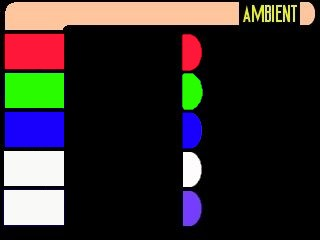
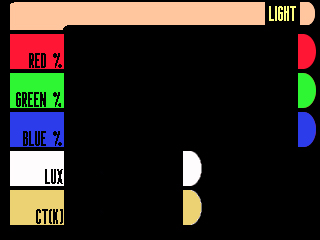
Added Dist and Temp Pictures and Code

diff --git a/lib/ui/Pages.cpp b/lib/ui/Pages.cpp
@@ -14,6 +14,10 @@ void BlankPage::init()
 {
   Serial.println("INIT BLANK PAGE");
   GO.lcd.drawJpgFile(SPIFFS, "/Init.jpg", 0, 0, 320, 240, 0, 0, JPEG_DIV_NONE);
+  for (int i = 0; i < 5; ++i)
+  {
+    components[i]->reset();
+  }
 }
 
 void BlankPage::draw()
@@ -25,6 +29,10 @@ void AmbientPage::init()
 {
   Serial.println("INIT Ambient PAGE");
   GO.lcd.drawJpgFile(SPIFFS, "/Ambient.jpg", 0, 0, 320, 240, 0, 0, JPEG_DIV_NONE);
+  for (int i = 0; i < 5; ++i)
+  {
+    components[i]->reset();
+  }
 }
 
 void AmbientPage::setSensorData(
@@ -42,11 +50,11 @@ void AmbientPage::setSensorData(
 
   components = (UIComponent **)malloc(sizeof(UIComponent *) * 5);
 
-  components[0] = new Text(65, 30, "%.1lf", RED, BLACK, 2, tempSensorData);
-  components[1] = new Text(65, 72, "%.1lf", BLUE, BLACK, 2, humSensorData);
-  components[2] = new Text(65, 112, "%.1lf", WHITE, BLACK, 2, pressSensorData);
-  components[3] = new Text(65, 150, "%.1lf", WHITE, BLACK, 2, luxSensorData);
-  components[4] = new Text(65, 190, "%.1lf", WHITE, BLACK, 2, uvSensorData);
+  components[0] = new Text(68, 33, "%.1lf", RED, BLACK, 2, tempSensorData);
+  components[1] = new Text(68, 73, "%.1lf", BLUE, BLACK, 2, humSensorData);
+  components[2] = new Text(68, 112, "%.1lf", WHITE, BLACK, 2, pressSensorData);
+  components[3] = new Text(68, 152, "%.1lf", WHITE, BLACK, 2, luxSensorData);
+  components[4] = new Text(68, 192, "%.1lf", WHITE, BLACK, 2, uvSensorData);
 }
 
 void AmbientPage::draw()
@@ -62,6 +70,10 @@ void LightPage::init()
 {
   Serial.println("INIT Light PAGE");
   GO.lcd.drawJpgFile(SPIFFS, "/Light.jpg", 0, 0, 320, 240, 0, 0, JPEG_DIV_NONE);
+  for (int i = 0; i < 5; ++i)
+  {
+    components[i]->reset();
+  }
 }
 
 void LightPage::setSensorData(
@@ -79,11 +91,15 @@ void LightPage::setSensorData(
 
   components = (UIComponent **)malloc(sizeof(UIComponent *) * 5);
 
-  components[0] = new Text(65, 30, "%.1lf", RED, BLACK, 2, redSensorData);
-  components[1] = new Text(65, 72, "%.1lf", GREEN, BLACK, 2, greenSensorData);
-  components[2] = new Text(65, 112, "%.1lf", BLUE, BLACK, 2, blueSensorData);
-  components[3] = new Text(65, 150, "%.1lf", WHITE, BLACK, 2, luxSensorData);
-  components[4] = new Text(65, 190, "%.1lf", YELLOW, BLACK, 2, colorTempSensorData);
+  components[0] = new BarGraph(68, 33, 220, 35, 0, 100, RED, BLACK, redSensorData);
+  components[1] = new BarGraph(68, 74, 220, 35, 0, 100, GREEN, BLACK, greenSensorData);
+  components[2] = new BarGraph(68, 112, 220, 35, 0, 100, BLUE, BLACK, blueSensorData);
+
+  //components[0] = new Text(65, 30, "%.1lf", RED, BLACK, 2, redSensorData);
+  //components[1] = new Text(65, 72, "%.1lf", GREEN, BLACK, 2, greenSensorData);
+  //components[2] = new Text(65, 112, "%.1lf", BLUE, BLACK, 2, blueSensorData);
+  components[3] = new Text(68, 153, "%.1lf", WHITE, BLACK, 2, luxSensorData);
+  components[4] = new Text(68, 192, "%.1lf", YELLOW, BLACK, 2, colorTempSensorData);
 }
 
 void LightPage::draw()
@@ -100,6 +116,10 @@ void GasesPage::init()
 {
   Serial.println("INIT Gases PAGE");
   GO.lcd.drawJpgFile(SPIFFS, "/Gases.jpg", 0, 0, 320, 240, 0, 0, JPEG_DIV_NONE);
+  for (int i = 0; i < 5; ++i)
+  {
+    components[i]->reset();
+  }
 }
 
 void GasesPage::setSensorData(
@@ -150,10 +170,78 @@ void GasesPage::draw()
 
 // -------------------------------------------
 
+void DistancePage::init()
+{
+  Serial.println("INIT Distance PAGE");
+  GO.lcd.drawJpgFile(SPIFFS, "/Distance.jpg", 0, 0, 320, 240, 0, 0, JPEG_DIV_NONE);
+  for (int i = 0; i < 5; ++i)
+  {
+    components[i]->reset();
+  }
+}
+
+void DistancePage::setSensorData(SensorData *distanceData)
+{
+  this->distanceData = distanceData;
+
+  components = (UIComponent **)malloc(sizeof(UIComponent *) * 2);
+
+  // BarGraph(int x, int y, int width, int height, double min, double max, SensorData *data) ;
+
+  components[0] = new BarGraph(68, 35, 220, 35, 0, 120, WHITE, BLACK, distanceData);
+  components[1] = new Text(68, 90, "%.1lf", YELLOW, BLACK, 4, distanceData);
+}
+
+void DistancePage::draw()
+{
+  for (int i = 0; i < 2; ++i)
+  {
+    components[i]->draw();
+  }
+}
+
+// -------------------------------------------
+
+void TemperaturePage::init()
+{
+  Serial.println("INIT Temperature PAGE");
+  GO.lcd.drawJpgFile(SPIFFS, "/Temperature.jpg", 0, 0, 320, 240, 0, 0, JPEG_DIV_NONE);
+  for (int i = 0; i < 5; ++i)
+  {
+    components[i]->reset();
+  }
+}
+
+void TemperaturePage::setSensorData(SensorData *temperatureData)
+{
+  this->temperatureData = temperatureData;
+
+  components = (UIComponent **)malloc(sizeof(UIComponent *) * 2);
+
+  // BarGraph(int x, int y, int width, int height, double min, double max, SensorData *data) ;
+
+  components[0] = new BarGraph(68, 35, 220, 35, 0, 120, RED, BLACK, temperatureData);
+  components[1] = new Text(68, 90, "%.1lf", YELLOW, BLACK, 4, temperatureData);
+}
+
+void TemperaturePage::draw()
+{
+  for (int i = 0; i < 2; ++i)
+  {
+    components[i]->draw();
+  }
+}
+
+// -------------------------------------------
+
 void ExamplePage::init()
 {
   Serial.println("INIT Gases PAGE");
   GO.lcd.fillRect(0, 0, 320, 240, BLACK);
+  for (int i = 0; i < 5; ++i)
+  {
+    components[i]->reset();
+  }
 }
 
 void ExamplePage::setSensorData(

diff --git a/lib/ui/UIComponents.cpp b/lib/ui/UIComponents.cpp
@@ -14,29 +14,38 @@ void BarGraph::draw()
 
   if ( lastWidth < 0)
   {
-    GO.lcd.fillRect(x,y,newWidth, height, TFT_BLUE) ;
+    GO.lcd.fillRect(x,y,newWidth, height, fgcolor) ;
   }
   else
   {
     if ( lastWidth < newWidth )
     {
-      GO.lcd.fillRect(x+lastWidth,y,newWidth-lastWidth, height, TFT_BLUE) ;
+      GO.lcd.fillRect(x+lastWidth,y,newWidth-lastWidth, height, fgcolor) ;
     }
     else if ( lastWidth > newWidth )
     {
-      GO.lcd.fillRect(x+newWidth,y,lastWidth-newWidth, height, TFT_BLACK) ;
+      GO.lcd.fillRect(x+newWidth,y,lastWidth-newWidth, height, bgcolor) ;
 
     }
   }
   lastWidth = newWidth ;
 }
 
-BarGraph::BarGraph(int x, int y, int width, int height, double min, double max, SensorData *data)
+ void BarGraph::reset() 
+ {
+   lastWidth = -1 ;
+   GO.lcd.fillRect(x,y,width, height, bgcolor) ;
+ }
+
+
+BarGraph::BarGraph(int x, int y, int width, int height, double min, double max, uint16_t fgcolor, uint16_t bgcolor, SensorData *data)
 {
   this->x = x ;
   this->y = y ;
   this->width = width ;
   this->height = height ;
+   this->fgcolor = fgcolor ;
+  this->bgcolor = bgcolor ;
   this->min = min ;
   this->max = max ;
 
@@ -58,11 +67,15 @@ void Text::draw()
     }
     lastTextLength = strlen(formatted) ;
     GO.lcd.setTextColor(fgcolor,bgcolor);
+    GO.lcd.setTextSize(textSize);
     GO.lcd.drawString(formatted, x,y) ;
 
 
 }
+ void Text::reset() 
+ {
 
+ }
 
 Text::Text(int x, int y, char *format, uint16_t fgcolor, uint16_t bgcolor, uint8_t textSize, SensorData *data)
 {

diff --git a/lib/ui/UIComponents.h b/lib/ui/UIComponents.h
@@ -7,16 +7,20 @@
 class UIComponent  {
     public:
       virtual void draw() = 0;
+      virtual void reset() = 0;
+     
     private:
 };
 
 class BarGraph : public UIComponent  {
 
     public:
-      BarGraph(int x, int y, int width, int height, double min, double max, SensorData *data) ;
+      BarGraph(int x, int y, int width, int height, double min, double max, uint16_t fgcolor, uint16_t bgcolor, SensorData *data) ;
       virtual void draw() ;
+      virtual void reset() ;
     private:
       int x, y, width, height;
+      uint16_t fgcolor, bgcolor ;
       double min, max ;
       int lastWidth = -1 ;
       double factorPixToVal;
@@ -28,6 +32,8 @@ class Text : public UIComponent  {
     public:
       Text(int x, int y, char *format, uint16_t fgcolor, uint16_t bgcolor, uint8_t textSize, SensorData *data) ;
       virtual void draw() ;
+      virtual void reset() ;
+
     private:
       int x, y;
       char *format ;

diff --git a/lib/ui/Pages.h b/lib/ui/Pages.h
@@ -106,6 +106,39 @@ class GasesPage : public Page  {
 
 
 
+
+class DistancePage : public Page  {
+
+    public:
+      virtual void init() ;
+      virtual void draw() ;
+
+      void setSensorData(SensorData *distanceData ) ;
+    private:
+      SensorData *distanceData ;
+
+      UIComponent **components ;
+
+};
+
+class TemperaturePage : public Page  {
+
+    public:
+      virtual void init() ;
+      virtual void draw() ;
+
+      void setSensorData(SensorData *temperatureData ) ;
+    private:
+      SensorData *temperatureData ;
+
+      UIComponent **components ;
+
+};
+
+
+
+
+
 class ExamplePage : public Page  {
 
     public:
